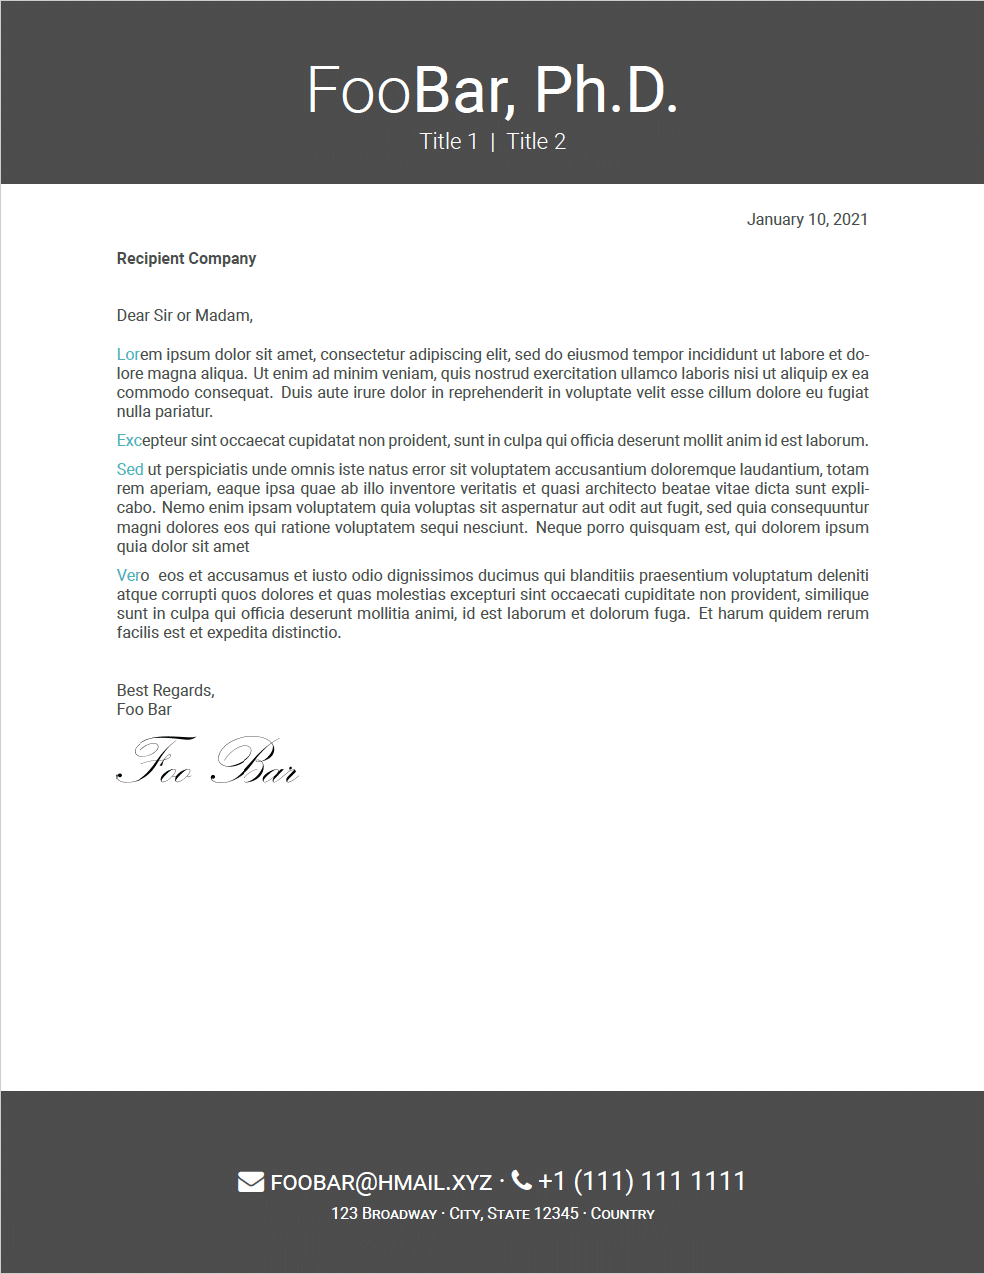
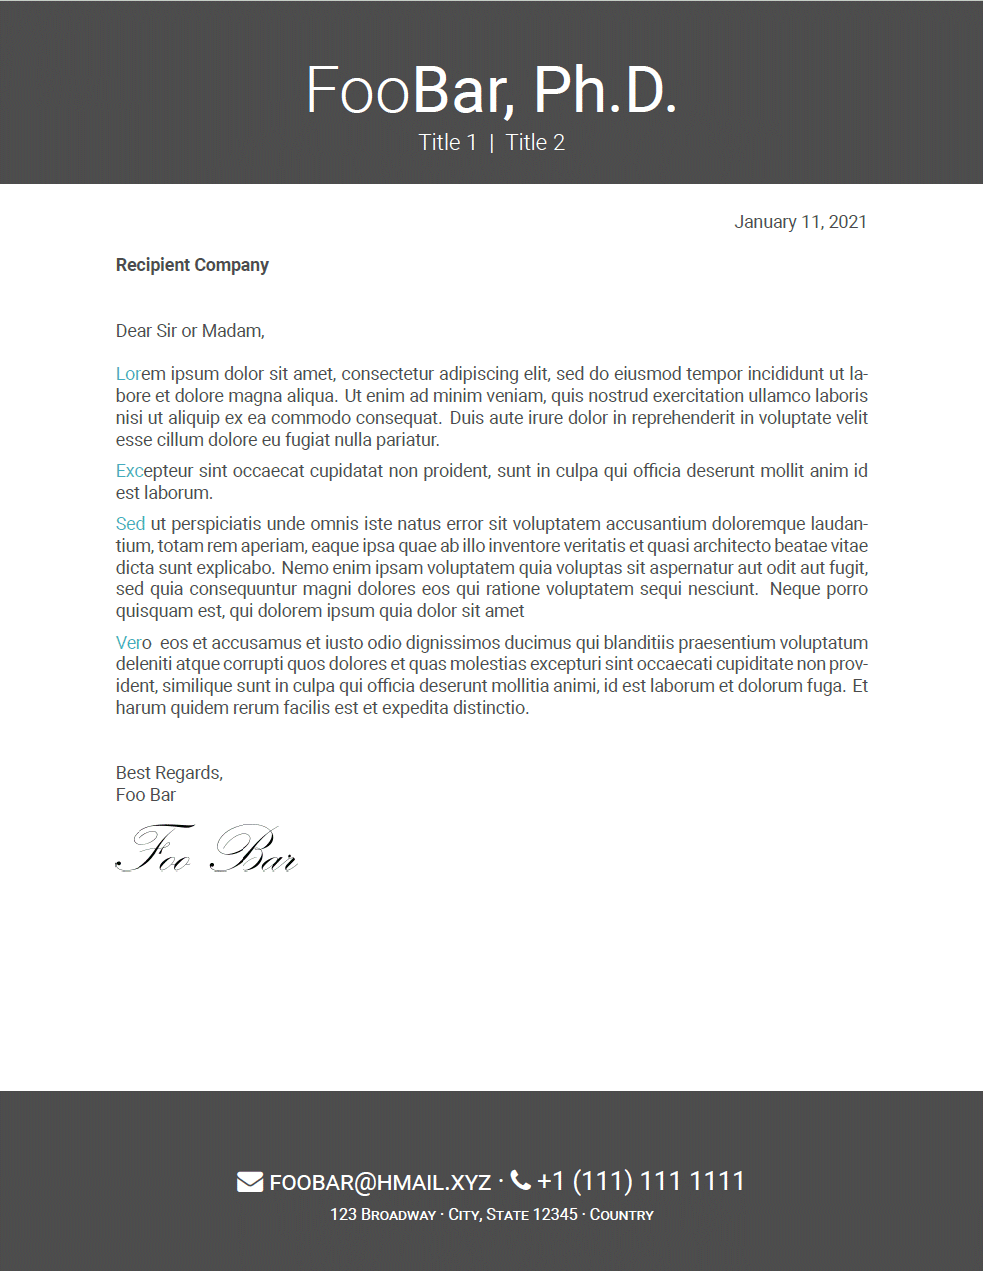
updated code preamble and cover leter font size

diff --git a/coverletter.tex b/coverletter.tex
@@ -1,21 +1,21 @@
 %%%%%%%%%%%%%%%%%%%%%%%%%%%%%%%%%%%%%%%%%
-% PhD_Resume_and_CoverLetter_Template
+% Friggeri Resume/CV
 % XeLaTeX Template
-% Version 1.0 (2020-09-01)
+% Date: 11 January 2021
 %
-% Author of this CV/CoverLetter fork:
-% Christian Haller
+% Author of this template:
+% Christian Haller (mail@christianhaller.me)
 % This template has been downloaded from:
 % https://github.com/ChristianHallerX/PhD_Resume_and_CoverLetter_Template
 %
-% Original Résumé Author:
+% Original author:
 % Adrien Friggeri (adrien@friggeri.net)
 % https://github.com/afriggeri/CV
-% Résumé Modified by:
+% Heavy modifications by
 % Jesper Dramsch (jesper@dramsch.net)
 % https://github.com/JesperDramsch/friggeri-cv-boosted
 %
-% Original Cover Letter Author:
+% Author of Letter Template:
 % Jesper Dramsch (jesper@dramsch.net)
 % https://github.com/JesperDramsch/friggeri-cv-boosted
 %
@@ -25,6 +25,7 @@
 % Important notes:
 % This template needs to be compiled with XeLaTeX and the bibliography, if used,
 % needs to be compiled with biber rather than bibtex.
+%
 %%%%%%%%%%%%%%%%%%%%%%%%%%%%%%%%%%%%%%%%%
 
 \documentclass[roboto,noadress,custcol]{friggeri-txt}                       % Pass options to .cls in brackets. Example: [nunito,noadress,nocolors]

diff --git a/cv.tex b/cv.tex
@@ -1,21 +1,21 @@
 %%%%%%%%%%%%%%%%%%%%%%%%%%%%%%%%%%%%%%%%%
-% PhD_Resume_and_CoverLetter_Template
+% Friggeri Resume/CV
 % XeLaTeX Template
-% Version 1.0 (2020-09-01)
+% Date: 11 January 2021
 %
-% Author of this CV/CoverLetter fork:
-% Christian Haller
+% Author of this template:
+% Christian Haller (mail@christianhaller.me)
 % This template has been downloaded from:
 % https://github.com/ChristianHallerX/PhD_Resume_and_CoverLetter_Template
 %
-% Original Résumé Author:
+% Original author:
 % Adrien Friggeri (adrien@friggeri.net)
 % https://github.com/afriggeri/CV
-% Résumé Modified by:
+% Heavy modifications by
 % Jesper Dramsch (jesper@dramsch.net)
 % https://github.com/JesperDramsch/friggeri-cv-boosted
 %
-% Original Cover Letter Author:
+% Author of Letter Template:
 % Jesper Dramsch (jesper@dramsch.net)
 % https://github.com/JesperDramsch/friggeri-cv-boosted
 %
@@ -25,6 +25,7 @@
 % Important notes:
 % This template needs to be compiled with XeLaTeX and the bibliography, if used,
 % needs to be compiled with biber rather than bibtex.
+%
 %%%%%%%%%%%%%%%%%%%%%%%%%%%%%%%%%%%%%%%%%
 
 %\input{.head}
